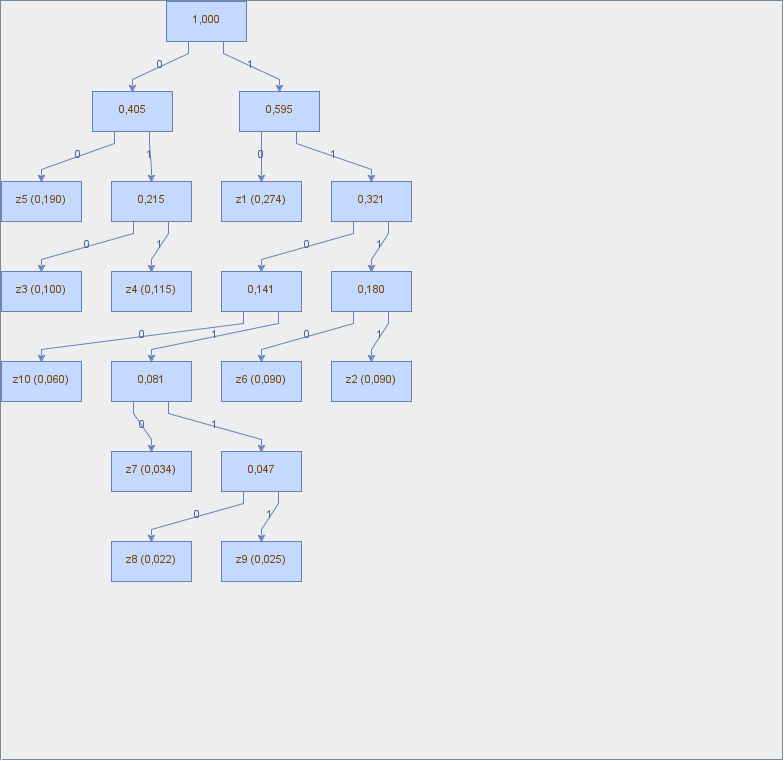
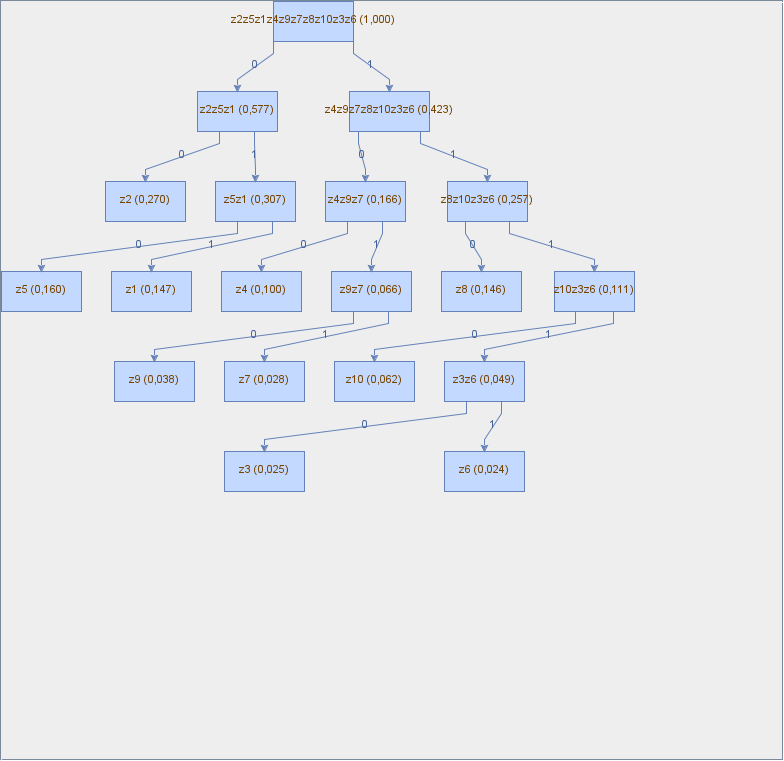
fix bag calculate HuffmanCode

diff --git a/src/main/java/logic/calculatehuffmancode/calculate/CalculateHuffmanCode.java b/src/main/java/logic/calculatehuffmancode/calculate/CalculateHuffmanCode.java
@@ -1,16 +1,19 @@
 package logic.calculatehuffmancode.calculate;
 
-import logic.calculatehuffmancode.config.ConfigHuffmanCode;
 import config.Probabilities;
 
-import java.util.HashMap;
-import java.util.Map;
-import java.util.PriorityQueue;
+import java.util.*;
 
 public class CalculateHuffmanCode {
 
     public static void main(String[] args) {
-        System.out.println(getCodes(ConfigHuffmanCode.root));
+        HashMap<String, Double> frequencyMap = createFrequencyMap();
+        checkProbabilities(frequencyMap);
+
+        Node root = buildHuffmanTree(frequencyMap);
+        Map<String, String> codes = getCodes(root);
+
+        codes.forEach((k, v) -> System.out.println("Код для " + k + ": " + v));
     }
 
     public static class Node implements Comparable<Node> {
@@ -26,46 +29,66 @@ public class CalculateHuffmanCode {
 
         @Override
         public int compareTo(Node other) {
-            return Double.compare(this.frequency, other.frequency);
+            int freqComparison = Double.compare(this.frequency, other.frequency);
+            return (freqComparison != 0) ? freqComparison : this.data.compareTo(other.data);
         }
+
+        public boolean isLeaf() {
+            return this.left == null && this.right == null;
+        }
+    }
+
+    public static Node buildHuffmanTree(HashMap<String, Double> frequencyMap) {
+        // Создаем список узлов и сортируем по убыванию вероятности
+        List<Node> nodes = new ArrayList<>();
+        frequencyMap.forEach((key, value) -> nodes.add(new Node(key, value)));
+        nodes.sort(Collections.reverseOrder());
+
+        while (nodes.size() > 1) {
+            // Получаем два узла с наименьшими вероятностями
+            Node right = nodes.remove(nodes.size() - 1);
+            Node left = nodes.remove(nodes.size() - 1);
+
+            // Проверка на внутренние узлы
+            if (left.data.length() > right.data.length() ||
+                    (left.data.length() == right.data.length() && left.frequency > right.frequency)) {
+                Node temp = left;
+                left = right;
+                right = temp;
+            }
+
+            // Проверка для листовых узлов
+            if (left.isLeaf() && right.isLeaf() && left.frequency < right.frequency) {
+                Node temp = left;
+                left = right;
+                right = temp;
+            }
+
+            // Создаем новый родительский узел
+            Node newNode = new Node(left.data + right.data, left.frequency + right.frequency);
+            newNode.left = left;
+            newNode.right = right;
+            nodes.add(newNode);
+            nodes.sort(Collections.reverseOrder()); // Снова сортируем по убыванию
+        }
+
+        return nodes.get(0);
     }
 
     public static Map<String, String> getCodes(Node root) {
         Map<String, String> codes = new HashMap<>();
-        generateCodes(root, new StringBuilder(), codes);
+        assignCodes(root, "", codes);
         return codes;
     }
 
-    public static Node buildHuffmanTree(HashMap<String, Double> frequencyMap) {
-        PriorityQueue<Node> queue = new PriorityQueue<>();
-        frequencyMap.forEach((key, value) -> queue.add(new Node(key, value)));
+    private static void assignCodes(Node node, String code, Map<String, String> codes) {
+        if (node == null) return;
 
-        while (queue.size() > 1) {
-            Node left = queue.poll();
-            Node right = queue.poll();
-            Node newNode = new Node(null, left.frequency + right.frequency);
-            newNode.left = left;
-            newNode.right = right;
-            queue.add(newNode);
-        }
-        return queue.poll();
-    }
-
-    private static void generateCodes(Node root, StringBuilder code, Map<String, String> codes) {
-        if (root == null) return;
-
-        if (root.data != null) {
-            codes.put(root.data, code.toString());
-        }
-
-        if (root.left != null) {
-            generateCodes(root.left, code.append('0'), codes);
-            code.deleteCharAt(code.length() - 1);
-        }
-
-        if (root.right != null) {
-            generateCodes(root.right, code.append('1'), codes);
-            code.deleteCharAt(code.length() - 1);
+        if (node.isLeaf()) {
+            codes.put(node.data, code);
+        } else {
+            assignCodes(node.left, code + "0", codes);
+            assignCodes(node.right, code + "1", codes);
         }
     }
 
@@ -84,5 +107,11 @@ public class CalculateHuffmanCode {
         ));
     }
 
+    public static void checkProbabilities(Map<String, Double> frequencyMap) {
+        double total = frequencyMap.values().stream().mapToDouble(Double::doubleValue).sum();
+        if (Math.abs(total - 1.0) > 1e-9) {
+            throw new IllegalArgumentException("Сумма вероятностей должна быть равна 1.");
+        }
+    }
 
 }

diff --git a/src/main/java/config/Probabilities.java b/src/main/java/config/Probabilities.java
@@ -5,16 +5,16 @@ import java.util.List;
 
 public class Probabilities {
 
-    public static final double p_z1 = 0.274;
-    public static final double p_z2 = 0.09;
-    public static final double p_z3 = 0.1;
-    public static final double p_z4 = 0.115;
-    public static final double p_z5 = 0.19;
-    public static final double p_z6 = 0.09;
-    public static final double p_z7 = 0.034;
-    public static final double p_z8 = 0.022;
-    public static final double p_z9 = 0.025;
-    public static final double p_z10 = 0.06;
+    public static final double p_z1 = 0.147;
+    public static final double p_z2 = 0.27;
+    public static final double p_z3 = 0.025;
+    public static final double p_z4 = 0.1;
+    public static final double p_z5 = 0.16;
+    public static final double p_z6 = 0.024;
+    public static final double p_z7 = 0.028;
+    public static final double p_z8 = 0.146;
+    public static final double p_z9 = 0.038;
+    public static final double p_z10 = 0.062;
 
     public static List<Double> getProbabilities() {
         return new ArrayList<>(List.of(
